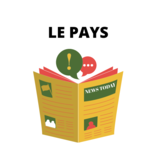
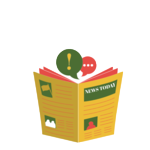
update header

diff --git a/theme-fabrice-ecf/header.php b/theme-fabrice-ecf/header.php
@@ -105,7 +105,7 @@
     </style>
   </head>
   <body <?php body_class();?>>
-    <header class="header">
+    <header class="header" style="background-color: antiquewhite;">
       <!-- Debut -->
         <nav class="navbar navbar-dark bg-muted m-auto minHeightfixe border-bottom border-warning">
           <div class=" col-12 d-none d-md-block d-lg-block" id="navbarsExample08">
@@ -126,6 +126,9 @@
                   <?php wp_nav_menu();?>
                 </div>
                 <div class="col-12 text-center">
+					<h1 style="font-family: Pineforest;">
+						LE PAYS
+					</h1>
                   <img src="<?php echo get_template_directory_uri(); ?>/img/header.png" alt="" width="150" height="150" class="m-auto">
                 </div>
               </div> 
